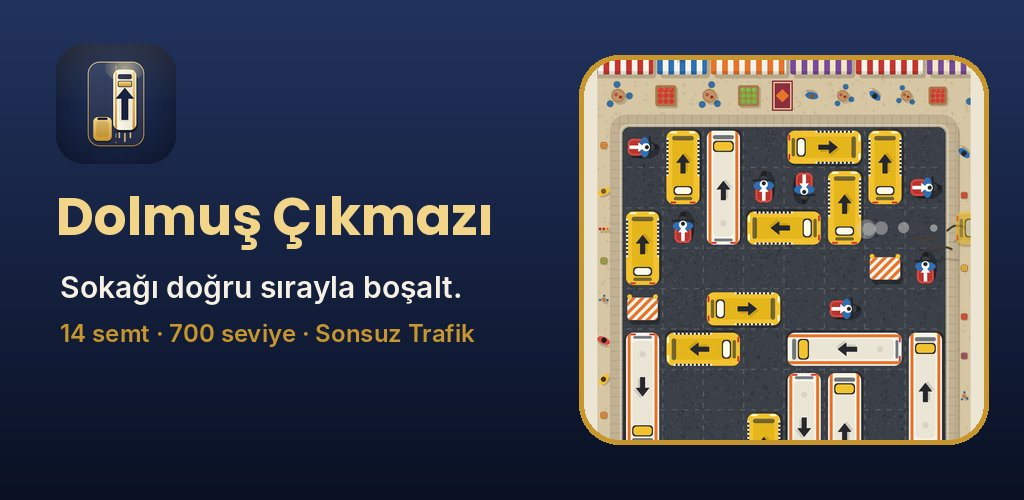
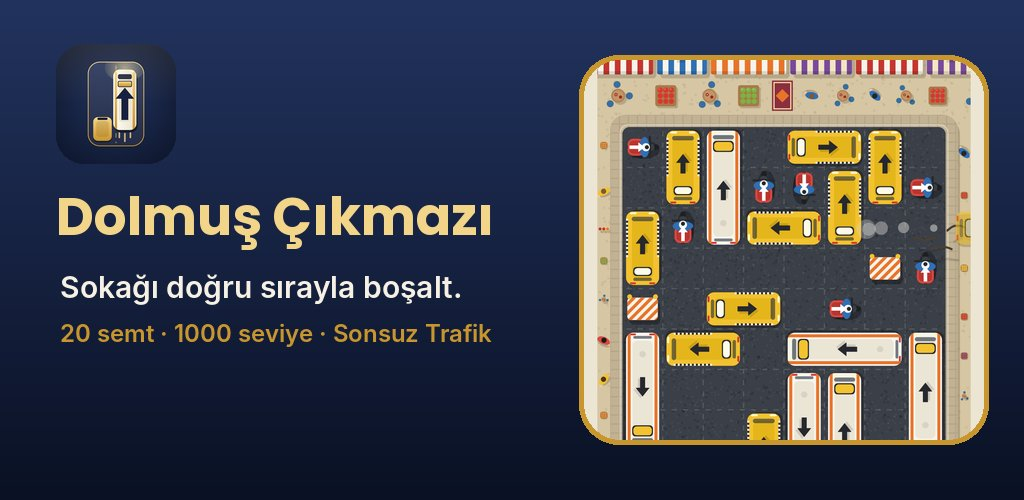
Dolmuş Çıkmazı 1.1.0: 20 semt, 1000 seviye
Claude-Session: https://claude.ai/code/session_012ZAYGsbSg5AWwjNh1L288r

Changed region(s): [[0.0625, 0.63, 0.5, 0.69]]

diff --git a/dolmus-cikmazi/index.html b/dolmus-cikmazi/index.html
@@ -4,9 +4,9 @@
 <meta charset="utf-8">
 <meta name="viewport" content="width=device-width, initial-scale=1">
 <title>Dolmuş Çıkmazı · Trafik Bulmaca</title>
-<meta name="description" content="Dolmuş Çıkmazı: sıkışan sokağı doğru sırayla boşalt. 14 semt, 700 seviye ve bitmeyen Sonsuz Trafik. MUON Studio'nun ok bulmacası. iPhone ve Android.">
+<meta name="description" content="Dolmuş Çıkmazı: sıkışan sokağı doğru sırayla boşalt. 20 semt, 1000 seviye ve bitmeyen Sonsuz Trafik. MUON Studio'nun ok bulmacası. iPhone ve Android.">
 <meta property="og:title" content="Dolmuş Çıkmazı · Trafik Bulmaca">
-<meta property="og:description" content="Sokağı doğru sırayla boşalt. 14 semt, 700 seviye. iPhone ve Android için ücretsiz.">
+<meta property="og:description" content="Sokağı doğru sırayla boşalt. 20 semt, 1000 seviye. iPhone ve Android için ücretsiz.">
 <meta property="og:image" content="https://muzosan.github.io/dolmus-cikmazi/og.jpg">
 <link rel="icon" href="icon.png">
 <link rel="apple-touch-icon" href="icon.png">
@@ -73,8 +73,8 @@
     <div>
       <div class="brand"><img src="icon.png" alt="Dolmuş Çıkmazı simgesi" width="76" height="76"></div>
       <h1>Dolmuş Çıkmazı</h1>
-      <p class="lead" data-l="tr">Mahalle arası kilitlendi! Her aracın okuna bak, doğru sırayla dokun, sokağı boşalt. 14 semt, 700 seviye ve bitmeyen Sonsuz Trafik.</p>
-      <p class="lead" data-l="en">The street is jammed! Read each arrow, tap in the right order and clear the road. 14 districts, 700 levels and endless traffic.</p>
+      <p class="lead" data-l="tr">Mahalle arası kilitlendi! Her aracın okuna bak, doğru sırayla dokun, sokağı boşalt. 20 semt, 1000 seviye ve bitmeyen Sonsuz Trafik.</p>
+      <p class="lead" data-l="en">The street is jammed! Read each arrow, tap in the right order and clear the road. 20 districts, 1000 levels and endless traffic.</p>
       <div class="stores">
         <a class="store soon" href="#" aria-disabled="true"><span data-l="tr">App Store · Yakında</span><span data-l="en">App Store · Coming soon</span></a>
         <a class="store soon" href="#" aria-disabled="true"><span data-l="tr">Google Play · Yakında</span><span data-l="en">Google Play · Coming soon</span></a>
@@ -89,9 +89,9 @@
       <div class="card"><b data-l="tr">10 saniyede öğren</b><b data-l="en">Learn in 10 seconds</b>
         <p data-l="tr">Araca dokun, okun yönünde gider. Önü kapalıysa çarpar. Ustalaşmak ise zaman ister.</p>
         <p data-l="en">Tap a vehicle and it drives where its arrow points. Blocked? It crashes. Mastery takes time.</p></div>
-      <div class="card"><b data-l="tr">14 semt, 700 seviye</b><b data-l="en">14 districts, 700 levels</b>
-        <p data-l="tr">Mahalleden çarşıya, limandan karlı yaylaya. Ardından bitmeyen Sonsuz Trafik.</p>
-        <p data-l="en">From the neighbourhood to the bazaar, the harbour and snowy highlands. Then endless traffic.</p></div>
+      <div class="card"><b data-l="tr">20 semt, 1000 seviye</b><b data-l="en">20 districts, 1000 levels</b>
+        <p data-l="tr">Mahalleden çarşıya, Boğaz gecesinden derbiye. Her semt rahat başlar, sonra beynini zorlar. Ardından bitmeyen Sonsuz Trafik.</p>
+        <p data-l="en">From the neighbourhood to the bazaar, the Bosphorus at night and derby night. Every district starts gentle, then gets brutal. Then endless traffic.</p></div>
       <div class="card"><b data-l="tr">Her seviye çözülebilir</b><b data-l="en">Always solvable</b>
         <p data-l="tr">Takılırsan korna bir sonraki hamleyi gösterir. Hatasız bitir, 3 yıldızı topla.</p>
         <p data-l="en">Stuck? The horn shows your next move. Finish without mistakes for 3 stars.</p></div>
